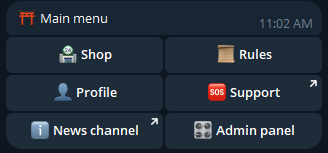
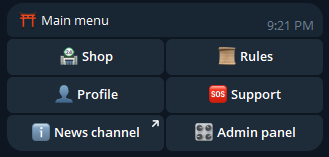
UPDATE: The support logic has been changed. Now it directs users not to chat with a helper, but instead to helper's User Info. The readme file has also been updated, and the CryptoPay currency bug has been fixed.

diff --git a/bot/handlers/user/main.py b/bot/handlers/user/main.py
@@ -72,7 +72,7 @@ async def start(message: Message, state: FSMContext):
         # Ignore channel errors (private channel, wrong link, etc.)
         pass
 
-    markup = main_menu(role=role_data, channel=channel_username, helper=EnvKeys.HELPER_URL)
+    markup = main_menu(role=role_data, channel=channel_username, helper=EnvKeys.HELPER_ID)
     await message.answer(localize("menu.title"), reply_markup=markup)
     await message.delete()
     await state.clear()
@@ -94,7 +94,7 @@ async def back_to_menu_callback_handler(call: CallbackQuery, state: FSMContext):
                            if parsed.path else channel_url.replace("https://t.me/", "").replace("t.me/", "").lstrip('@')
                        ) or None
 
-    markup = main_menu(role=user.role_id, channel=channel_username, helper=EnvKeys.HELPER_URL)
+    markup = main_menu(role=user.role_id, channel=channel_username, helper=EnvKeys.HELPER_ID)
     await call.message.edit_text(localize("menu.title"), reply_markup=markup)
     await state.clear()
 
@@ -174,7 +174,7 @@ async def check_sub_to_channel(call: CallbackQuery, state: FSMContext):
                            parsed_url.path.lstrip('/')
                            if parsed_url.path else chat.replace("https://t.me/", "").replace("t.me/", "").lstrip('@')
                        ) or None
-    helper = EnvKeys.HELPER_URL
+    helper = EnvKeys.HELPER_ID
 
     if channel_username:
         chat_member = await call.bot.get_chat_member(chat_id='@' + channel_username, user_id=user_id)

diff --git a/bot/handlers/user/balance_and_payment.py b/bot/handlers/user/balance_and_payment.py
@@ -101,7 +101,7 @@ async def process_replenish_balance(call: CallbackQuery, state: FSMContext):
             crypto = CryptoPayAPI()
             invoice = await crypto.create_invoice(
                 amount=float(amount_dec),
-                currency="RUB",
+                currency=EnvKeys.PAY_CURRENCY,
                 accepted_assets="TON,USDT,BTC,ETH",
                 payload=str(call.from_user.id),
                 expires_in=EnvKeys.PAYMENT_TIME
@@ -329,6 +329,7 @@ async def successful_payment_handler(message: Message):
                     referral_id,
                     localize('payments.referral.bonus',
                              amount=referral_operation,
+                             currency=EnvKeys.PAY_CURRENCY,
                              name=message.from_user.first_name),
                     reply_markup=close()
                 )

diff --git a/bot/misc/env.py b/bot/misc/env.py
@@ -20,7 +20,7 @@ class EnvKeys(ABC):
 
     # Links / UI
     CHANNEL_URL: Final = os.getenv("CHANNEL_URL")
-    HELPER_URL: Final = os.getenv("HELPER_URL")
+    HELPER_ID: Final = os.getenv("HELPER_ID")
     RULES: Final = os.getenv("RULES")
 
     # Locale & logs
@@ -39,4 +39,4 @@ class EnvKeys(ABC):
     DB_DRIVER: Final = os.getenv("DB_DRIVER", "postgresql+psycopg2")
 
     # Database (for manual deploy)
-    DATABASE_URL: Final = "postgresql+psycopg2://postgres:12345@localhost:5432/shop"  # (setup if you deploy manually)
+    DATABASE_URL: Final = "postgresql+psycopg2://user:password@localhost:5432/db_name"  # (setup if you deploy manually)

diff --git a/bot/keyboards/inline.py b/bot/keyboards/inline.py
@@ -13,7 +13,7 @@ def main_menu(role: int, channel: str | None = None, helper: str | None = None) 
     kb.button(text=localize("btn.rules"), callback_data="rules")
     kb.button(text=localize("btn.profile"), callback_data="profile")
     if helper:
-        kb.button(text=localize("btn.support"), url=f"https://t.me/{helper.lstrip('@')}")
+        kb.button(text=localize("btn.support"), url=f"tg://user?id={helper}")
     if channel:
         kb.button(text=localize("btn.channel"), url=f"https://t.me/{channel.lstrip('@')}")
     if role > 1:

diff --git a/markdown/quick_start.md b/markdown/quick_start.md
@@ -17,16 +17,16 @@ The application requires the following environment variables:
 <details>
 <summary><b>Payments</b></summary>
 
-| Variable                                                                                  | Description                                                                                                 |
-|-------------------------------------------------------------------------------------------|-------------------------------------------------------------------------------------------------------------|
-| [TELEGRAM_PROVIDER_TOKEN](https://core.telegram.org/bots/payments#getting-a-token)        | Provider's token for accepting payments                                                                     |
-| [CRYPTO_PAY_TOKEN](https://help.send.tg/en/articles/10279948-crypto-pay-api#h_020215e6d7) | CryptoPay API token (initially disabled)                                                                    |
-| STARS_PER_VALUE                                                                           | the equivalent of stars per unit of currency (to disable this payment method, set 0)                        |
-| PAY_CURRENCY                                                                              | the currency for paying the invoice (for Crypto Bot and Telegram Pay) and the displayed currency in the bot |
-| REFERRAL_PERCENT                                                                          | percentage of the referral deposit (initially disabled)                                                     |
-| PAYMENT_TIME                                                                              | PAYMENT_TIME - time allotted for payment (CryptoPay) in seconds (initially 1800 sec)                        |
-| MIN_AMOUNT                                                                                | minimum amount for crediting (initially 20)                                                                 |
-| MAX_AMOUNT                                                                                | maximum amount for crediting (initially 10_000)                                                             |
+| Variable                                                                                  | Description                                                                                                                      |
+|-------------------------------------------------------------------------------------------|----------------------------------------------------------------------------------------------------------------------------------|
+| [TELEGRAM_PROVIDER_TOKEN](https://core.telegram.org/bots/payments#getting-a-token)        | Provider's token for accepting payments                                                                                          |
+| [CRYPTO_PAY_TOKEN](https://help.send.tg/en/articles/10279948-crypto-pay-api#h_020215e6d7) | CryptoPay API token (initially disabled)                                                                                         |
+| STARS_PER_VALUE                                                                           | the equivalent of stars per unit of currency (to disable this payment method, set 0)                                             |
+| PAY_CURRENCY                                                                              | the currency for paying the invoice (for Crypto Bot and Telegram Pay) and the displayed currency in the bot (examples: RUB, USD) |
+| REFERRAL_PERCENT                                                                          | percentage of the referral deposit (initially disabled)                                                                          |
+| PAYMENT_TIME                                                                              | PAYMENT_TIME - time allotted for payment (CryptoPay) in seconds (initially 1800 sec)                                             |
+| MIN_AMOUNT                                                                                | minimum amount for crediting (initially 20)                                                                                      |
+| MAX_AMOUNT                                                                                | maximum amount for crediting (initially 10_000)                                                                                  |
 
 </details>
 
@@ -36,7 +36,7 @@ The application requires the following environment variables:
 | Variable    | Description                                                                                                                            |
 |-------------|----------------------------------------------------------------------------------------------------------------------------------------|
 | CHANNEL_URL | Telegram channel link. Notifications about assortment updates will occur there. (only works with public channels) (initially disabled) |
-| HELPER_URL  | telegram username for help (initially disabled)                                                                                        |
+| HELPER_ID   | Helper's ID in Telegram                                                                                                                |
 | RULES       | rules for using the bot (initially disabled)                                                                                           |
 
 </details>
@@ -73,10 +73,10 @@ The application requires the following environment variables:
 <summary><b>Database (for manual deploy)</b></summary>
 
 [Setup](https://docs.sqlalchemy.org/en/20/core/engines.html#database-urls) [DATABASE_URL](../bot/misc/env.py) (supports:
-PostgreSQL, MySQL, sqlite3, etc)
+PostgreSQL - preferably, MySQL, sqlite3, etc)
 </details>
 
-## How to deploy with docker
+## How to deploy with [docker](https://www.docker.com/)
 
 1. Clone project
 2. Create a `.env` file in the root directory with all the environment variables listed above

diff --git a/README.md b/README.md
@@ -10,7 +10,7 @@ telegram
 
 ![](assets/admin_pov.gif)
 
-### user pov:
+### user pov
 
 ![](assets/user_pov.gif)
 
@@ -20,11 +20,18 @@ telegram
 
 ### Menu
 
-the menu for the user looks like this (the administrator has an "admin panel" button in the menu):
+the menu for the user looks like this:
 
 ![](assets/menu_picture.png)
 
+The administrator has an "admin panel" button in the menu:
+
 ![](assets/menu_as_admin_picture.png)
+
+### Referral system
+The bot has a customizable referral system:
+
+![](assets/referral_system.png)
 
 ### Catalog
 
